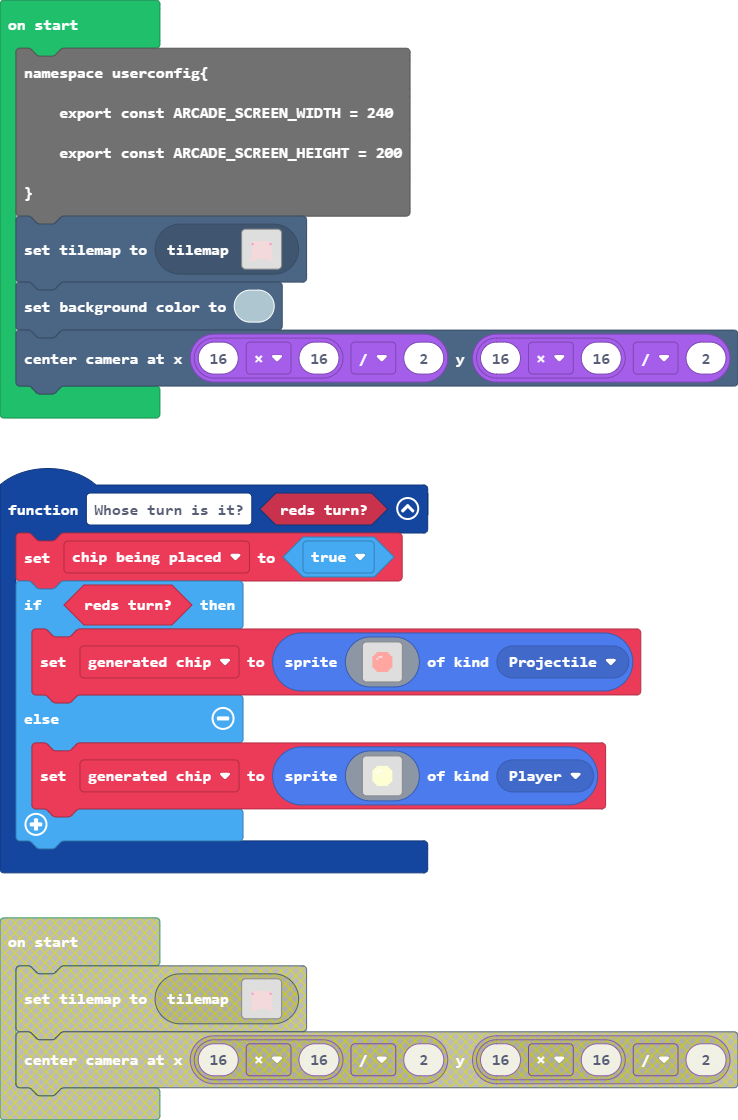
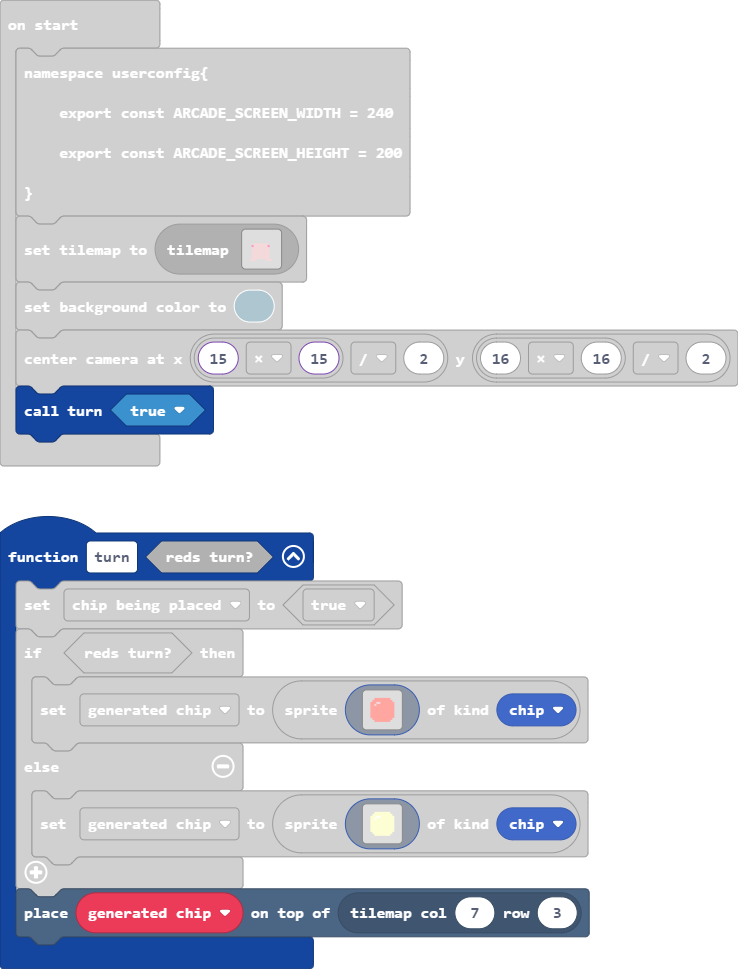
Incomplete: Function of turn (placement of generated chips for turns)

diff --git a/tilemap.g.ts b/tilemap.g.ts
@@ -160,8 +160,27 @@ namespace myTiles {
 . . . . . . . . . . . . . . . . 
 . . . . . . . . . . . . . . . . 
 `, [myTiles.transparency16], TileScale.Sixteen);
+            case "level9":
+            case "level9":return tiles.createTilemap(hex`1000100000000000000000000000000000000000000000000000000000000000000000000000000000000000000000000000000000000000000000000000000000000000000000000000000000000000000000000000000000000000000000000000000000000000000000000000000000000000000000000000000000000000000000000000000000000000000000000000000000000000000000000000000000000000000000000000000000000000000000000000000000000000000000000000000000000000000000000000000000000000000000000000000000000000000000000000000000000000000000000000000000000000000000000000000000000000`, img`
+. . . . . . . . . . . . . . . . 
+. . . . . . . . . . . . . . . . 
+. . . . . . . . . . . . . . . . 
+. . . . . . . . . . . . . . . . 
+. . . . . . . . . . . . . . . . 
+. . . . . . . . . . . . . . . . 
+. . . . . . . . . . . . . . . . 
+. . . . . . . . . . . . . . . . 
+. . . . . . . . . . . . . . . . 
+. . . . . . . . . . . . . . . . 
+. . . . . . . . . . . . . . . . 
+. . . . . . . . . . . . . . . . 
+. . . . . . . . . . . . . . . . 
+. . . . . . . . . . . . . . . . 
+. . . . . . . . . . . . . . . . 
+. . . . . . . . . . . . . . . . 
+`, [myTiles.transparency16], TileScale.Sixteen);
             case "Connect 4 Map":
[2 lines of base64/hex data omitted]
 . . . . . . . . . . . . . . . . 
 . . . . . . . . . . . . . . . . 
 . . . . . . . . . . . . . . . . 
@@ -173,10 +192,10 @@ namespace myTiles {
 . . . . . . . . . . . . . . . . 
 . . . . . . . . . . . . . . . . 
 . . . . . . . . . . . . . . . . 
-. . . . 2 2 2 2 2 2 2 2 . . . . 
+. . . . 2 2 2 2 2 2 2 . . . . . 
 . . . . . . . . . . . . . . . . 
 . . . . . . . . . . . . . . . . 
-`, [myTiles.transparency16,myTiles.tile7,myTiles.tile8,myTiles.tile11], TileScale.Sixteen);
+`, [myTiles.transparency16,myTiles.tile7,myTiles.tile8,myTiles.tile11,myTiles.tile3], TileScale.Sixteen);
         }
         return null;
     })

diff --git a/main.ts b/main.ts
@@ -1,44 +1,48 @@
-function Whose_turn_is_it (reds_turn: boolean) {
+namespace SpriteKind {
+    export const chip = SpriteKind.create()
+}
+function turn (reds_turn: boolean) {
     chip_being_placed = true
     if (reds_turn) {
         generated_chip = sprites.create(img`
             . . . . . . . . . . . . . . . . 
             . . . . . . . . . . . . . . . . 
-            . . . . . . . . . . . . . . . . 
-            . . . . . 2 2 2 2 2 2 . . . . . 
             . . . . 2 2 2 2 2 2 2 2 . . . . 
-            . . . 2 2 2 b b 2 2 2 2 2 . . . 
-            . . . 2 2 b 2 2 2 2 2 2 2 . . . 
             . . . 2 2 2 2 2 2 2 2 2 2 . . . 
-            . . . 2 2 2 2 2 2 2 2 2 2 . . . 
-            . . . 2 2 2 2 2 2 2 2 2 2 . . . 
+            . . 2 2 2 b b 2 2 2 2 2 2 2 . . 
+            . . 2 2 b 2 2 2 2 2 2 2 2 2 . . 
+            . . 2 2 2 2 2 2 2 2 2 2 2 2 . . 
+            . . 2 2 2 2 2 2 2 2 2 2 2 2 . . 
+            . . 2 2 2 2 2 2 2 2 2 2 2 2 . . 
+            . . 2 2 2 2 2 2 2 2 2 2 2 2 . . 
+            . . 2 2 2 2 2 2 2 2 2 2 2 2 . . 
+            . . 2 2 2 2 2 2 2 2 2 2 2 2 . . 
             . . . 2 2 2 2 2 2 2 2 2 2 . . . 
             . . . . 2 2 2 2 2 2 2 2 . . . . 
-            . . . . . 2 2 2 2 2 2 . . . . . 
             . . . . . . . . . . . . . . . . 
             . . . . . . . . . . . . . . . . 
-            . . . . . . . . . . . . . . . . 
-            `, SpriteKind.Projectile)
+            `, SpriteKind.chip)
     } else {
         generated_chip = sprites.create(img`
             . . . . . . . . . . . . . . . . 
             . . . . . . . . . . . . . . . . 
-            . . . . . . . . . . . . . . . . 
-            . . . . . 5 5 5 5 5 5 . . . . . 
             . . . . 5 5 5 5 5 5 5 5 . . . . 
-            . . . 5 5 5 1 1 5 5 5 5 5 . . . 
-            . . . 5 5 1 5 5 5 5 5 5 5 . . . 
             . . . 5 5 5 5 5 5 5 5 5 5 . . . 
-            . . . 5 5 5 5 5 5 5 5 5 5 . . . 
-            . . . 5 5 5 5 5 5 5 5 5 5 . . . 
+            . . 5 5 5 1 1 5 5 5 5 5 5 5 . . 
+            . . 5 5 1 5 5 5 5 5 5 5 5 5 . . 
+            . . 5 5 5 5 5 5 5 5 5 5 5 5 . . 
+            . . 5 5 5 5 5 5 5 5 5 5 5 5 . . 
+            . . 5 5 5 5 5 5 5 5 5 5 5 5 . . 
+            . . 5 5 5 5 5 5 5 5 5 5 5 5 . . 
+            . . 5 5 5 5 5 5 5 5 5 5 5 5 . . 
+            . . 5 5 5 5 5 5 5 5 5 5 5 5 . . 
             . . . 5 5 5 5 5 5 5 5 5 5 . . . 
             . . . . 5 5 5 5 5 5 5 5 . . . . 
-            . . . . . 5 5 5 5 5 5 . . . . . 
             . . . . . . . . . . . . . . . . 
             . . . . . . . . . . . . . . . . 
-            . . . . . . . . . . . . . . . . 
-            `, SpriteKind.Player)
+            `, SpriteKind.chip)
     }
+    tiles.placeOnTile(generated_chip, tiles.getTileLocation(7, 3))
 }
 let generated_chip: Sprite = null
 let chip_being_placed = false
@@ -48,4 +52,5 @@ namespace userconfig{
 }
 tiles.setCurrentTilemap(tilemap`Connect 4 Map`)
 scene.setBackgroundColor(4)
-scene.centerCameraAt(16 * 16 / 2, 16 * 16 / 2)
+scene.centerCameraAt(15 * 15 / 2, 16 * 16 / 2)
+turn(true)
